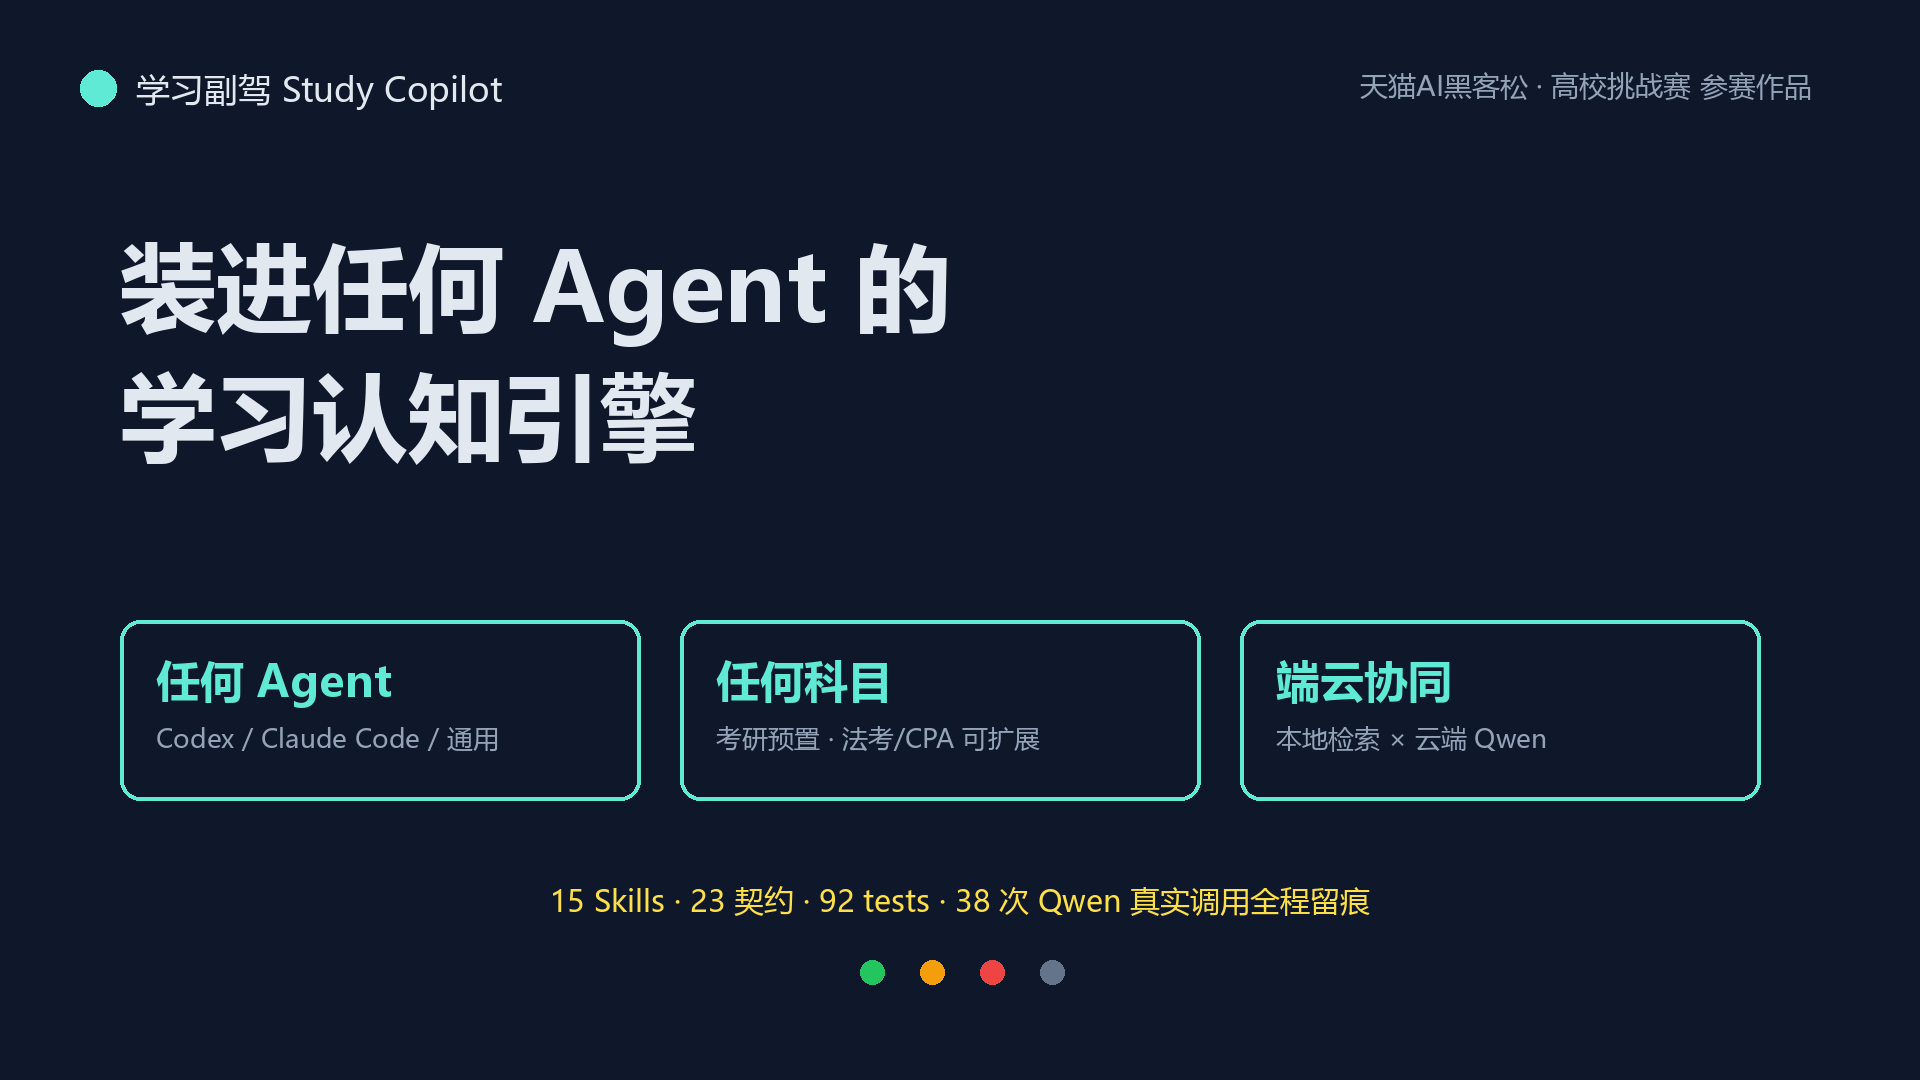
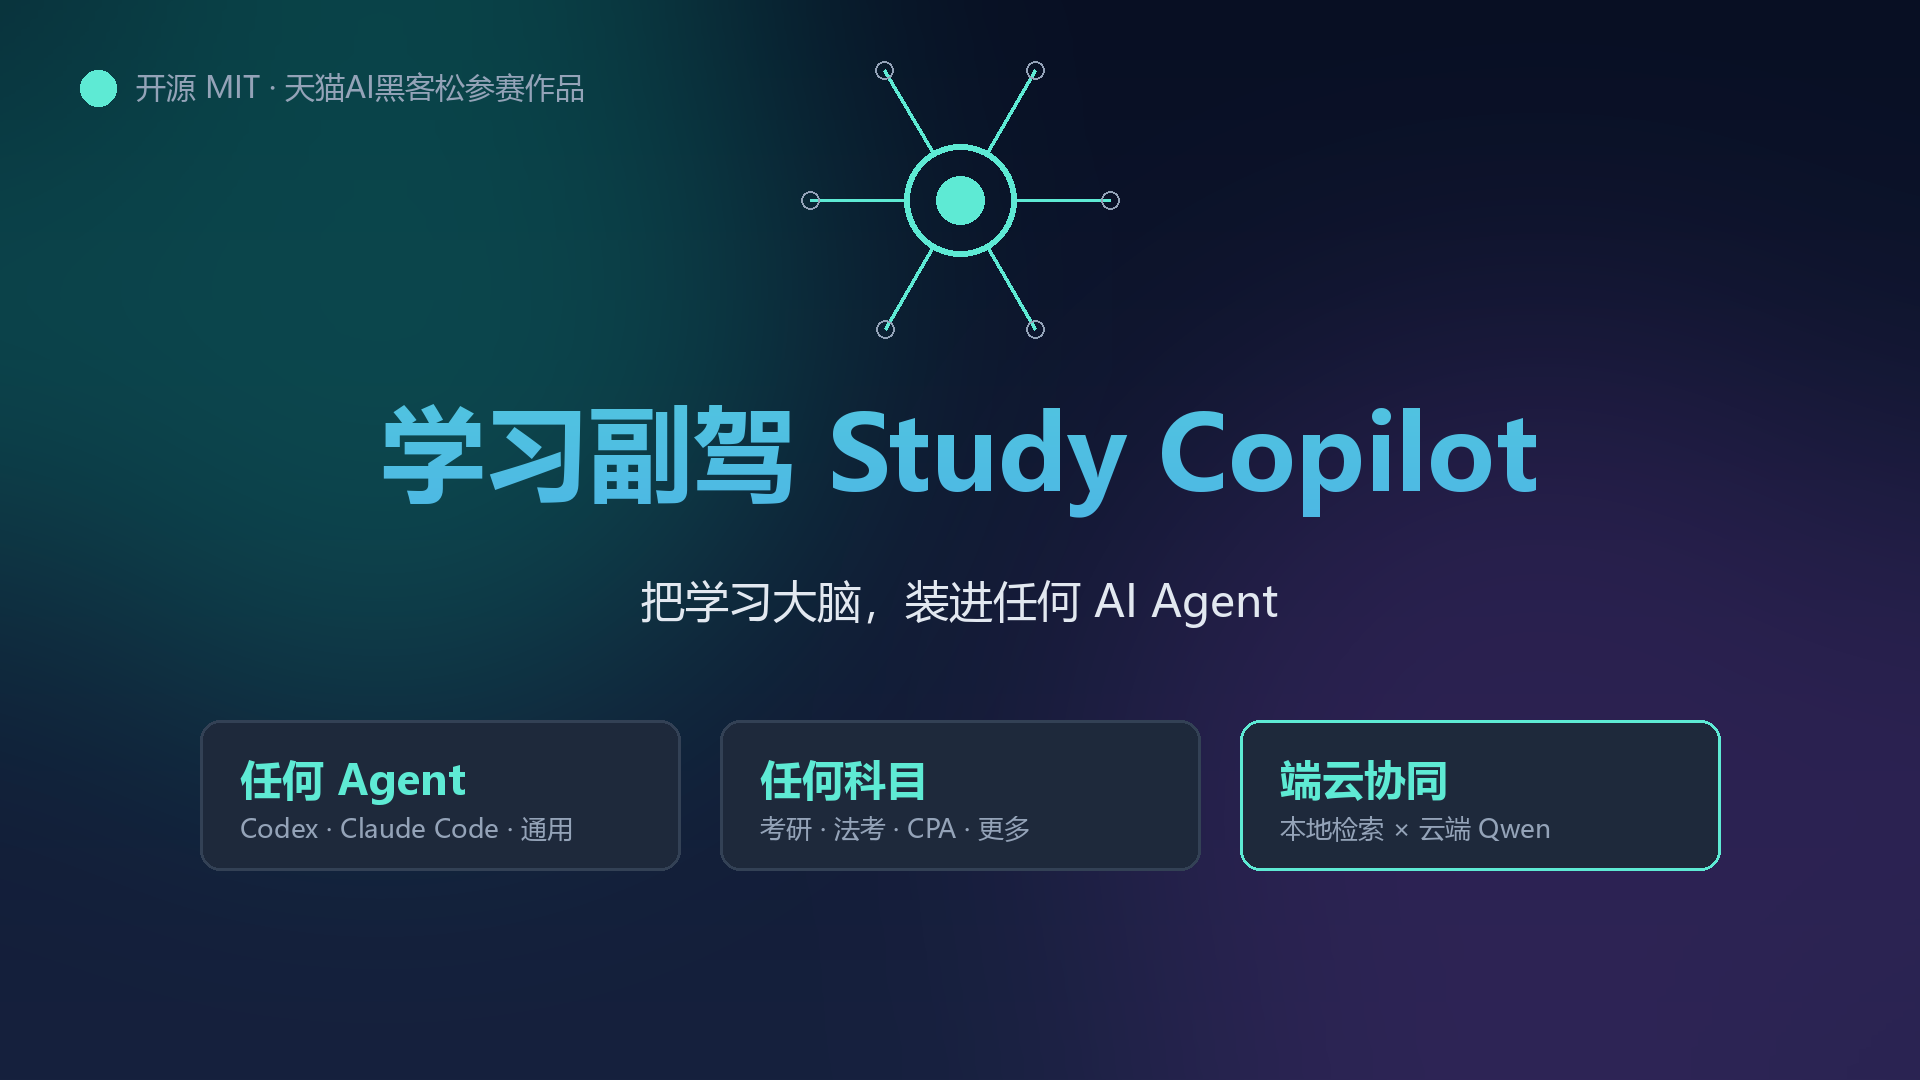
design: 封面 v2——删除底部数据条，升级画风(渐变底/双色光晕/渐变标题/节点符号/悬浮徽章)

diff --git a/scripts/make_cover.py b/scripts/make_cover.py
@@ -1,24 +1,19 @@
 # -*- coding: utf-8 -*-
-"""作品封面生成器（1920×1080，表单要求的 16:9 横版）。
+"""作品封面生成器 v2（1920×1080，表单要求的 16:9 横版）。
 
-品牌风格与演示视频一致：深色底 + 品牌青 + 四色状态点缀。
-输出：封面.png（仓库根层，供活动页上传与作品包使用）。
+v2 变更：删除底部小字数据条；画风升级——深色渐变底、双色光晕、
+渐变主标题、中央极简符号（大脑-节点隐喻）、悬浮卡片徽章。
 """
 from __future__ import annotations
 
+import math
 import sys
 from pathlib import Path
 
-from PIL import Image, ImageDraw, ImageFont
+from PIL import Image, ImageDraw, ImageFilter, ImageFont
 
 REPO = Path(__file__).resolve().parents[1]
 W, H = 1920, 1080
-C_BG = (15, 23, 42)
-C_PANEL = (30, 41, 59)
-C_TEXT = (226, 232, 240)
-C_DIM = (148, 163, 184)
-C_ACCENT = (94, 234, 212)
-C_YELLOW = (253, 224, 71)
 
 
 def F(bold: bool, size: int) -> ImageFont.FreeTypeFont:
@@ -26,44 +21,79 @@ def F(bold: bool, size: int) -> ImageFont.FreeTypeFont:
     return ImageFont.truetype(r"C:\Windows\Fonts\{}".format(name), size)
 
 
+def vertical_gradient(w: int, h: int, top: tuple, bottom: tuple) -> Image.Image:
+    img = Image.new("RGB", (1, h))
+    for y in range(h):
+        t = y / max(h - 1, 1)
+        img.putpixel((0, y), tuple(int(top[i] + (bottom[i] - top[i]) * t) for i in range(3)))
+    return img.resize((w, h))
+
+
+def add_glow(base: Image.Image, cx: int, cy: int, r: int, color: tuple, alpha: float) -> None:
+    overlay = Image.new("RGB", base.size, color)
+    mask = Image.new("L", base.size, 0)
+    md = ImageDraw.Draw(mask)
+    md.ellipse([cx - r, cy - r, cx + r, cy + r], fill=int(alpha * 255))
+    mask = mask.filter(ImageFilter.GaussianBlur(radius=r // 3))
+    base.paste(overlay, (0, 0), mask)
+
+
 def main() -> int:
-    img = Image.new("RGB", (W, H), C_BG)
+    # 1. 渐变底 + 双色光晕
+    img = vertical_gradient(W, H, (8, 15, 35), (22, 33, 62))
+    add_glow(img, 380, 300, 430, (10, 120, 110), alpha=0.5)   # 左青
+    add_glow(img, 1540, 800, 450, (70, 40, 110), alpha=0.5)   # 右紫
     d = ImageDraw.Draw(img)
 
-    # 顶部品牌行
-    d.ellipse([80, 70, 116, 106], fill=C_ACCENT)
-    d.text((136, 66), "学习副驾 Study Copilot", font=F(False, 34), fill=C_TEXT)
-    d.text((W - 560, 66), "天猫AI黑客松 · 高校挑战赛 参赛作品", font=F(False, 28), fill=C_DIM)
+    # 2. 中央极简符号（大脑-节点隐喻）
+    cx, cy = W // 2, 200
+    d.ellipse([cx - 56, cy - 56, cx + 56, cy + 56], outline=(94, 234, 212), width=6)
+    d.ellipse([cx - 24, cy - 24, cx + 24, cy + 24], fill=(94, 234, 212))
+    for deg in range(0, 360, 60):
+        a = math.radians(deg)
+        px, py = cx + math.cos(a) * 150, cy + math.sin(a) * 150
+        d.line([cx + math.cos(a) * 56, cy + math.sin(a) * 56, px, py],
+               fill=(94, 234, 212), width=3)
+        d.ellipse([px - 9, py - 9, px + 9, py + 9], outline=(148, 163, 184), width=2)
 
-    # 主标题
-    t = "装进任何 Agent 的\n学习认知引擎"
-    y = 220
-    for ln in t.splitlines():
-        d.text((120, y), ln, font=F(True, 96), fill=C_TEXT)
-        y += 130
+    # 3. 主标题（渐变色：先画到临时渐变图上再用文字遮罩合成）
+    title = "学习副驾 Study Copilot"
+    font_title = F(True, 104)
+    tw = d.textlength(title, font=font_title)
+    tx, ty = int((W - tw) / 2), 380
+    grad = vertical_gradient(W, H, (94, 234, 212), (59, 130, 246))
+    mask = Image.new("L", (W, H), 0)
+    ImageDraw.Draw(mask).text((tx, ty), title, font=font_title, fill=255)
+    img.paste(grad, (0, 0), mask)
+    d = ImageDraw.Draw(img)  # 重新绑定
 
-    # 三徽章
-    badges = [("任何 Agent", "Codex / Claude Code / 通用"),
-              ("任何科目", "考研预置 · 法考/CPA 可扩展"),
+    # 4. 副标题
+    tagline = "把学习大脑，装进任何 AI Agent"
+    tw2 = d.textlength(tagline, font=F(False, 44))
+    d.text(((W - tw2) / 2, 570), tagline, font=F(False, 44), fill=(226, 232, 240))
+
+    # 5. 三徽章（悬浮卡片）
+    badges = [("任何 Agent", "Codex · Claude Code · 通用"),
+              ("任何科目", "考研 · 法考 · CPA · 更多"),
               ("端云协同", "本地检索 × 云端 Qwen")]
-    x = 120
-    for title, desc in badges:
-        d.rounded_rectangle([x, 620, x + 520, 800], 20, outline=C_ACCENT, width=4)
-        d.text((x + 36, 650), title, font=F(True, 44), fill=C_ACCENT)
-        d.text((x + 36, 720), desc, font=F(False, 26), fill=C_DIM)
-        x += 560
+    bw, bh, gap = 480, 150, 40
+    x0 = (W - (bw * 3 + gap * 2)) // 2
+    for i, (title_b, desc) in enumerate(badges):
+        x = x0 + i * (bw + gap)
+        y = 720
+        border = (94, 234, 212) if i == 2 else (51, 65, 85)
+        d.rounded_rectangle([x, y, x + bw, y + bh], 20, fill=(30, 41, 59),
+                            outline=border, width=3)
+        d.text((x + 40, y + 30), title_b, font=F(True, 42), fill=(94, 234, 212))
+        d.text((x + 40, y + 90), desc, font=F(False, 26), fill=(148, 163, 184))
 
-    # 数据条（真实数字）
-    stats = "15 Skills · 23 契约 · 92 tests · 38 次 Qwen 真实调用全程留痕"
-    d.text(((W - d.textlength(stats, font=F(False, 30))) / 2, 880),
-           stats, font=F(False, 30), fill=C_YELLOW)
+    # 6. 顶部品牌行
+    d.ellipse([80, 70, 116, 106], fill=(94, 234, 212))
+    d.text((136, 66), "开源 MIT · 天猫AI黑客松参赛作品", font=F(False, 30), fill=(148, 163, 184))
 
-    # 四色状态点（掌握度色块示意）
-    for i, c in enumerate([(34, 197, 94), (245, 158, 11), (239, 68, 68), (100, 116, 139)]):
-        d.ellipse([860 + i * 60, 960, 884 + i * 60, 984], fill=c)
-
+    # 7. v2：底部小字数据条已删除——留白聚焦
     img.save(REPO / "封面.png")
-    print("封面已生成：", REPO / "封面.png")
+    print("封面 v2 已生成：", REPO / "封面.png")
     return 0
 
 
